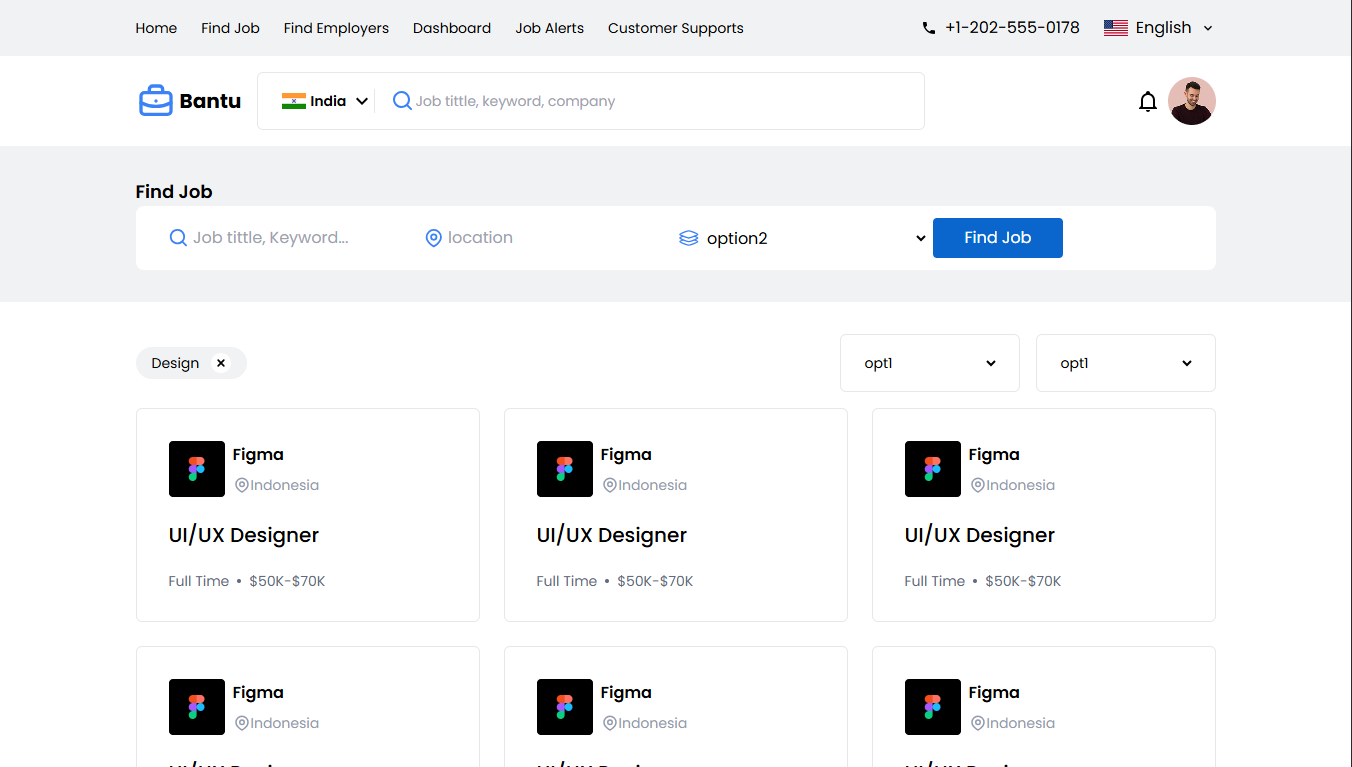
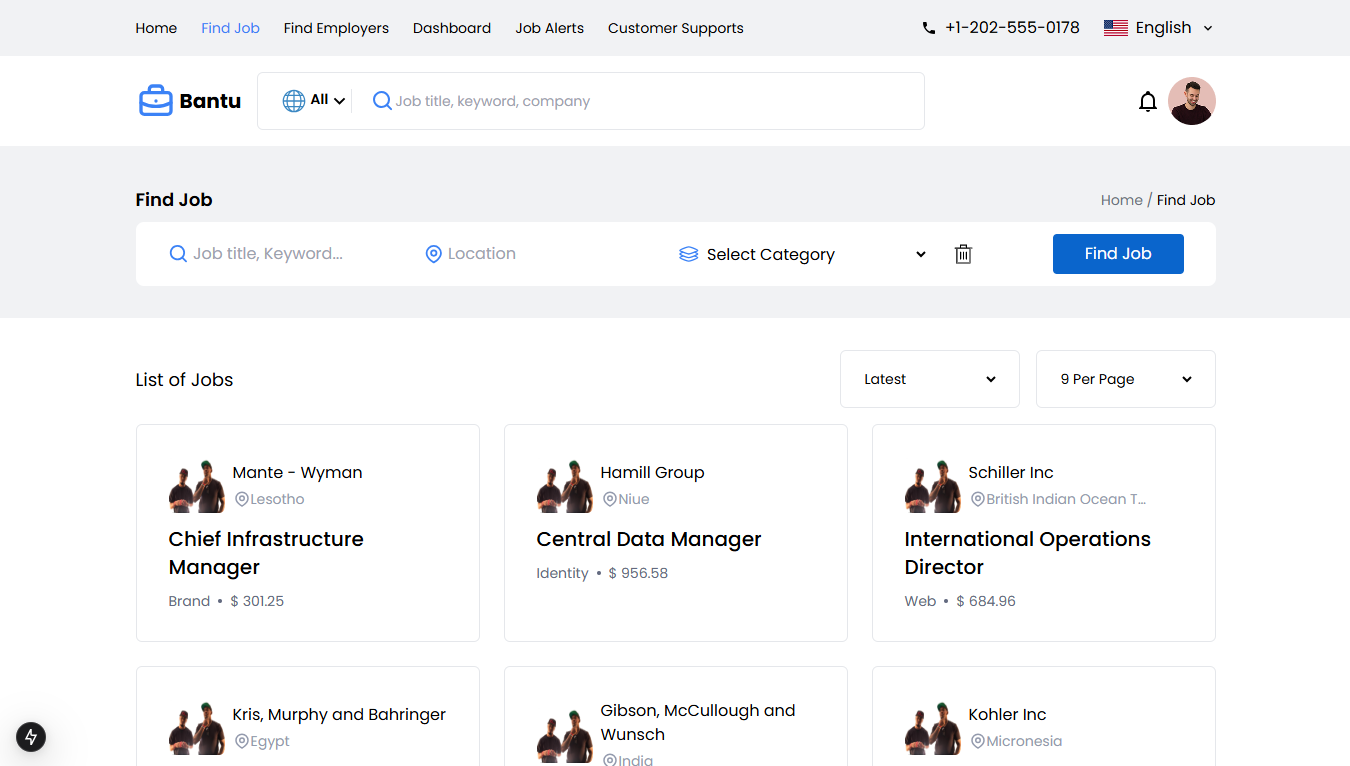
feat:find job for job type

diff --git a/src/components/SearchSection.jsx b/src/components/SearchSection.jsx
@@ -3,6 +3,7 @@
 import React, { useState, useEffect, useRef } from "react";
 import { Icon } from "@iconify/react";
 import { getAllJob } from "@/api/services/job";
+import { useRouter } from "next/navigation";
 
 const SearchSection = () => {
   const [searchTerm, setSearchTerm] = useState("");
@@ -14,6 +15,7 @@ const SearchSection = () => {
   const [locations, setLocations] = useState(["All"]);
   const dropdownRef = useRef(null);
   const searchRef = useRef(null);
+  const router = useRouter();
 
   useEffect(() => {
     const fetchJobs = async () => {
@@ -38,7 +40,6 @@ const SearchSection = () => {
         job.category.toLowerCase().includes(searchTerm.toLowerCase())
       );
       
-      // Filter berdasarkan lokasi yang dipilih
       if (selectedLocation !== "All") {
         filtered = filtered.filter(job => 
           job.location === selectedLocation
@@ -53,7 +54,6 @@ const SearchSection = () => {
     }
   }, [searchTerm, jobs, selectedLocation]);
 
-  // Handle click outside
   useEffect(() => {
     const handleClickOutside = (event) => {
       if (dropdownRef.current && !dropdownRef.current.contains(event.target)) {
@@ -77,6 +77,7 @@ const SearchSection = () => {
   const handleJobSelect = (job) => {
     setSearchTerm(job.name);
     setShowSearchDropdown(false);
+    router.push(`/job/${job.id}`);
   };
 
   const handleLocationChange = (location) => {
@@ -94,7 +95,7 @@ const SearchSection = () => {
           </div>
         </a>
         <div className="flex items-center border p-2 rounded-md gap-1 md:p-4 lg:gap-4 lg:px-6 lg:w-[668px] relative">
-          <div className="w-auto flex items-center gap-1 cursor-pointer">
+          <div className="w-auto flex flex-row justify-center items-center gap-1 cursor-pointer">
             <img src="/earth.svg" alt="flag" className="w-4 md:w-6" />
             <div 
             onClick={() => setShowLocationDropdown(!showLocationDropdown)}

diff --git a/src/sections/job/jobList/hook/useHandleJobs.js b/src/sections/job/jobList/hook/useHandleJobs.js
@@ -26,9 +26,19 @@ export const useHandleJobs = () => {
     let result = allJob;
 
     if (searchParams?.jobTitle) {
-      result = result.filter(job => 
-        job.name.toLowerCase().includes(searchParams.jobTitle.toLowerCase())
-      );
+      result = result.filter(job => {
+        const jobType = Number(job.id) % 5 === 0 ? 'Contract' : 
+                       Number(job.id) % 4 === 0 ? 'Remote' : 
+                       Number(job.id) % 3 === 0 ? 'Intern' : 
+                       Number(job.id) % 2 === 0 ? 'Full Time' : 'Freelance';
+        
+        const searchTerm = searchParams.jobTitle.toLowerCase();
+        
+        return (
+          job.name.toLowerCase().includes(searchTerm) ||
+          jobType.toLowerCase().includes(searchTerm)
+        );
+      });
     }
 
     if (searchParams?.location) {

diff --git a/src/sections/job/findJob/index.jsx b/src/sections/job/findJob/index.jsx
@@ -58,7 +58,7 @@ const FindJobSection = ({ onSearch }) => {
             <Icon icon={"mingcute:search-line"} className="text-blue-500 lg:size-6" />
             <input 
               type="text" 
-              placeholder="Job title, Keyword..." 
+              placeholder="Job title, type, Keyword..." 
               value={jobTitle}
               onChange={(e) => setJobTitle(e.target.value)}
               className="focus:outline-none text-xs w-20 md:w-full lg:text-base" 

diff --git a/src/app/page.jsx b/src/app/page.jsx
@@ -1,3 +1,5 @@
+"use client"
+
 import CTA from "@/sections/home/cta";
 import FeaturedJob from "@/sections/home/featured";
 import Hero from "@/sections/home/hero";
